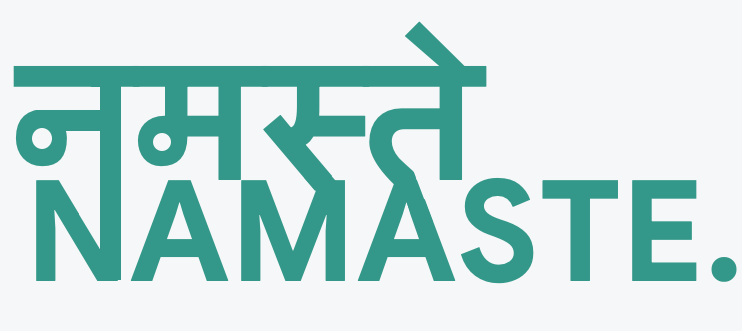
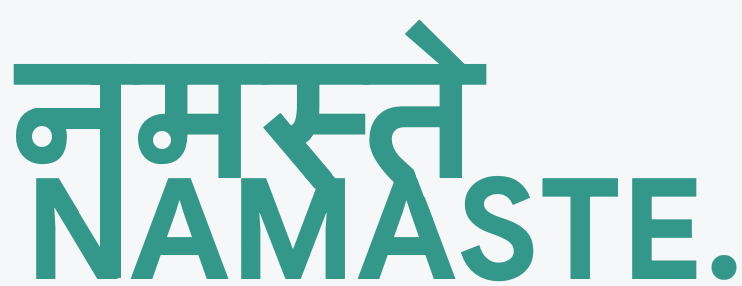
Some changes for aesthetics

diff --git a/about.html b/about.html
@@ -149,13 +149,41 @@
 
                             <div class="parentimagediv" style="opacity: 0;">
 
-                                <img id="longspacecoverimage" src="images/old/space 8.jpg">
-                                <img id="smallspacecoverimage" src="images/old/space 8.jpg" width=60%>
+                                <img style="border-radius: 20px;" id="longspacecoverimage" src="images/old/space 8.jpg">
+                                <img style="border-radius: 20px;" id="smallspacecoverimage" src="images/old/space 8.jpg" width=60%>
 
                             </div>
+                        </div>
+                        <div class="large-3 medium-3 tab-full mobile-full hideonsmalldisplays"></div>
+                        <div class="large-9 medium-9 tab-full mobile-full">
+
+
+                            <style>
+                                .HoverMessage {
+                                    color: #499e8f;
+                                    font-size: 1.15em;
+                                }
+                                
+                                .HoverMessageSmall {
+                                    display: none;
+                                }
+                                
+                                @media screen and (max-width: 1100px) {
+                                    .HoverMessage {
+                                        display: none;
+                                    }
+                                    .HoverMessageSmall {
+                                        display: inline-block;
+                                        color: #499e8f;
+                                        font-size: 1.15em;
+                                    }
+                                }
+                            </style>
 
                             <div data-pop-media="media10" class="pop-media pop-media--circle pop-media--audio" style="background-image: url(images/old/vinyl.svg);"></div>
-                            <span id="trigger-10" mediapop="true" effect-fx="10" class="pop-text" data-pop-media="media10"><img id="namaste" src="./images/namaste.png" width=80% style="opacity: 0;" /></span>
+                            <span id="trigger-10" mediapop="true" effect-fx="10" class="pop-text" data-pop-media="media10"><img id="namaste" src="./images/namaste.png" width=70% style="opacity: 0;cursor:wait" /></span>
+                            <br><span class="HoverMessage">&nbsp;&nbsp;&nbsp;&nbsp;&nbsp;(Hover to know the pronounciation)</span>
+                            <br><span class="HoverMessageSmall">&nbsp;&nbsp;&nbsp;&nbsp;&nbsp;(Touch to know the pronounciation)</span>
 
                             <div>
                                 <p><br></p>
@@ -219,6 +247,15 @@
                                 <div class="pop-media__overlay pop-media__overlay--c6"></div>
                             </div>
                             <div data-pop-media="media16" class="pop-media pop-media--revealfull" style="background-image: url(images/old/giphy.gif);"></div>
+                        </div>
+                        <div class="large-3 medium-3 tab-full mobile-full hideonsmalldisplays">
+                            <a href="#aboutmetext">
+                                <h1>
+                                    <svg version="1.1" id="svg-arrow-down" xmlns="http://www.w3.org/2000/svg" xmlns:xlink="http://www.w3.org/1999/xlink" x="0px" y="0px" viewBox="0 0 22 35" style="enable-background:new 0 0 22 35;" xml:space="preserve">
+                                  <polygon class="arrow" style="fill:#499e8f;" points="20.58,11.584 12.004,20.158 12.004,0 9.996,0 9.996,20.158 1.42,11.584 0,13.004 11,24
+                                                  22,13.004 "></polygon>
+                                </svg></h1>
+                            </a>
                         </div>
                     </div>
 

diff --git a/Education/formaleducation.html b/Education/formaleducation.html
@@ -173,7 +173,7 @@
                                                             <div class="comment__text">
 
                                                                 <p class="entry__tags" style="margin-top:10px;margin-bottom:3px">
-                                                                    <span>GPA</span>
+                                                                    <span class="blue">GPA</span>
 
                                                                     <span class="entry__tag-list">
                                                                                     <a href="">95.4%</a>
@@ -221,7 +221,7 @@
                                                             <div class="comment__text">
 
                                                                 <p class="entry__tags" style="margin-top:8px;margin-bottom:3px">
-                                                                    <span>GPA</span>
+                                                                    <span class="blue">GPA</span>
 
                                                                     <span class="entry__tag-list">
                                                                         <a href="">9.0</a>

diff --git a/css/main.css b/css/main.css
@@ -3497,7 +3497,7 @@ body.search-is-visible {
 
 .entry__tags span {
     font-weight: 500;
-    color: #000000;
+    color: inherit;
     padding-right: 56px;
     margin-right: 1.6rem;
     position: relative;
@@ -3530,9 +3530,9 @@ body.search-is-visible {
     font-size: 1.3rem;
     line-height: inherit;
     color: rgb(64, 106, 146);
+    border-radius: 30px;
     background: rgb(64, 106, 146, 0.05);
     border: 0px solid rgba(0, 0, 0, 0.3);
-    border-radius: 0px;
     margin-right: 6px;
     margin-bottom: 6px;
     padding: 8px 18px;
